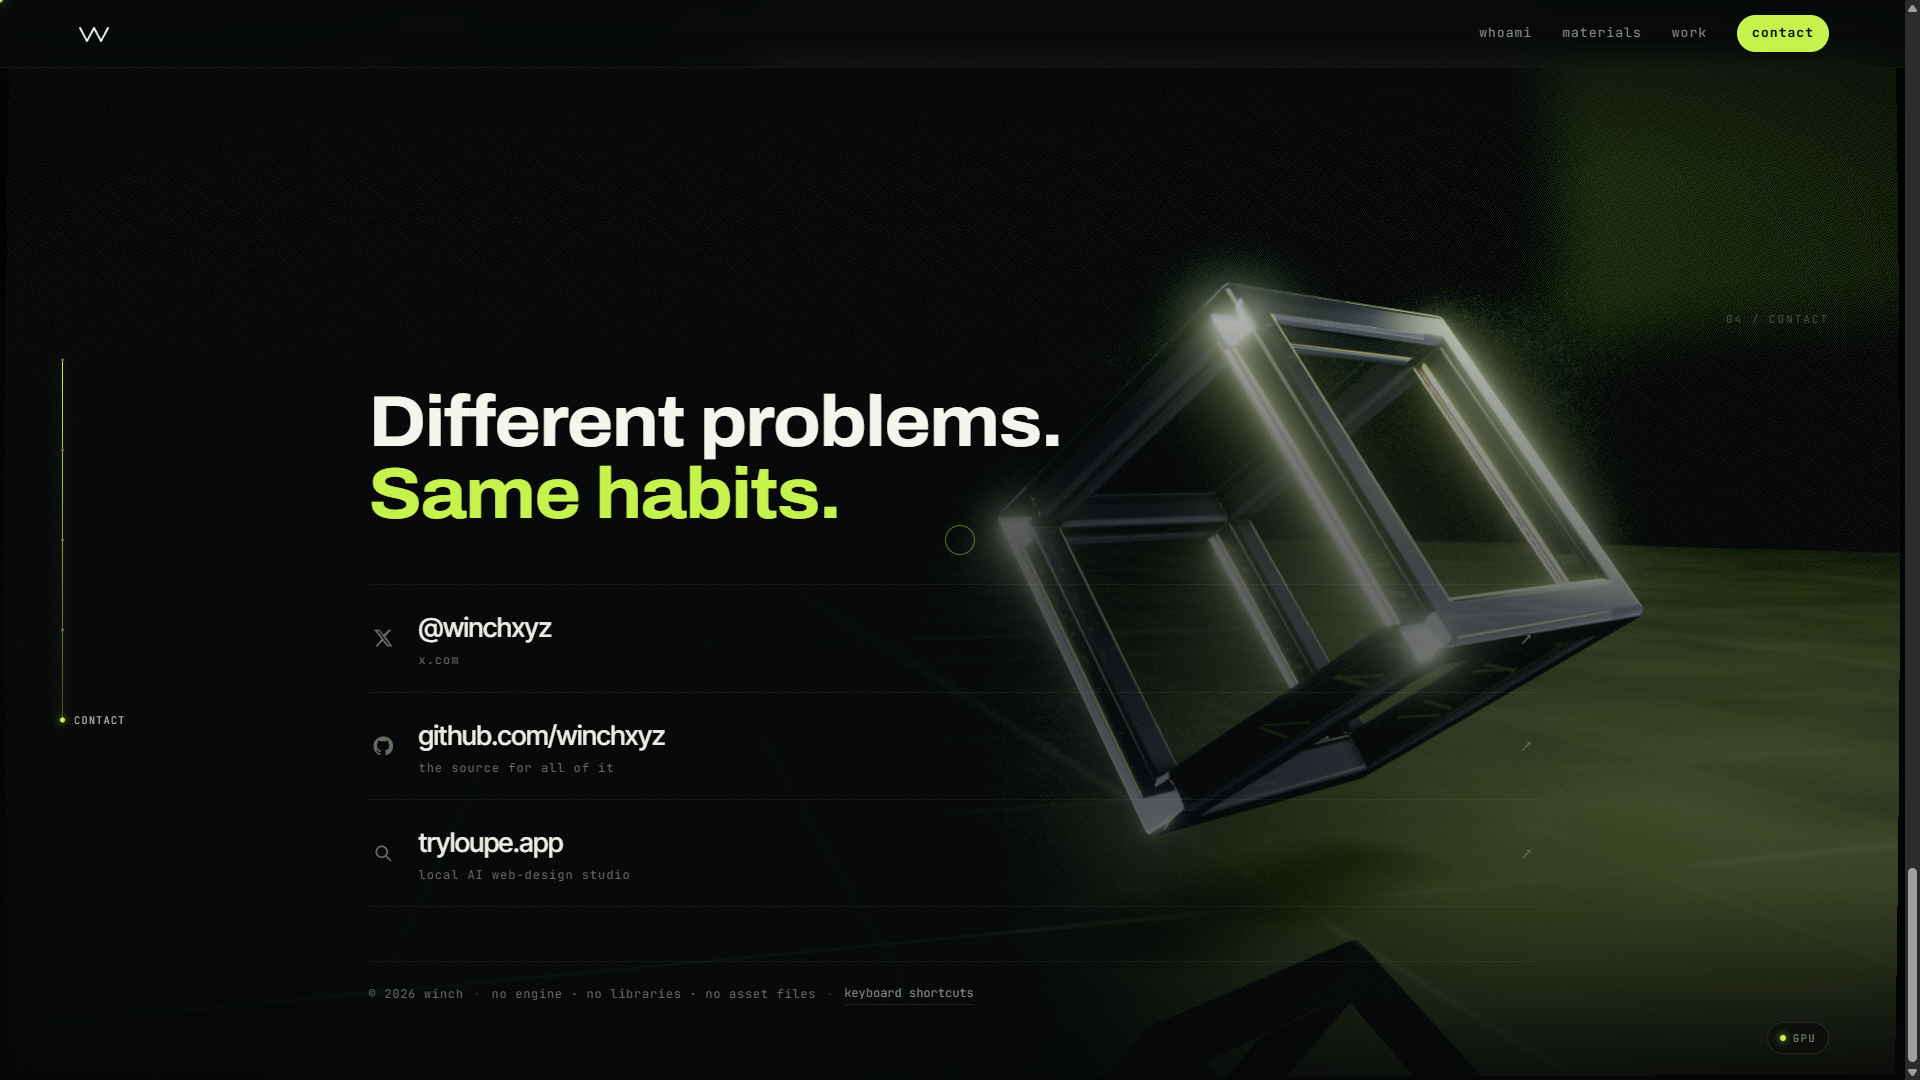
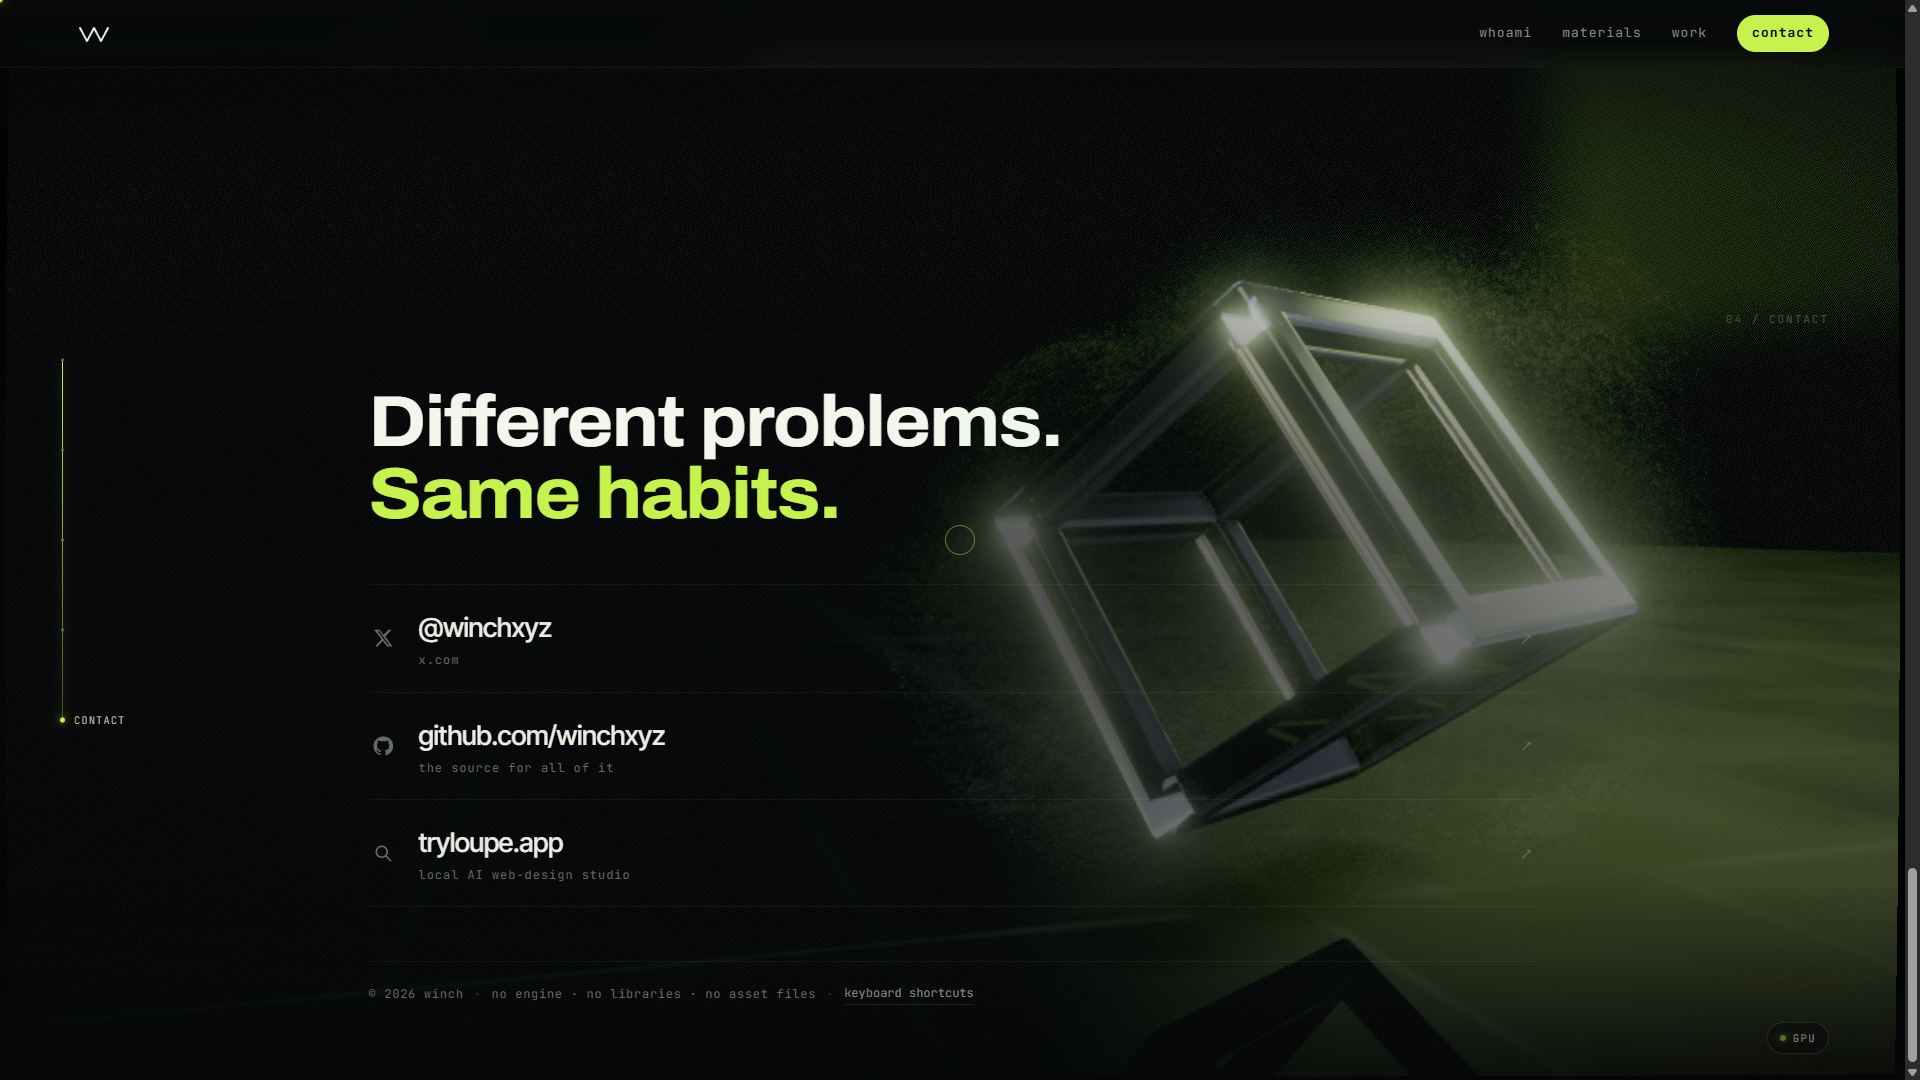
Reduced motion reaches the 3D, and the harness stops testing the wrong page
prefers-reduced-motion had been honoured on the DOM side for a while: reveals
fire at once, scrolling jumps rather than glides, the rotator stops rotating.
The 3D ignored it entirely, which made the listening close to cosmetic, given
that the thing moving on this page is a full-screen sculpture with a quarter
of a million particles around it.

Calm mode already existed for the M key and does the right things: half the
rotation rate, no parallax, curl and spin at a bit under half. It simply was
not wired to the one signal that asks for it. M still toggles, so this is a
default rather than a decision taken away. Verified both ways round: reduce
gives calm, no-preference does not.

Which turned up something worse. Headless Chrome reports prefers-reduced-motion
as reduce by DEFAULT, so every capture ever taken through this harness has been
of the calm, reveal-instantly version rather than the one a visitor gets. The
README has been illustrated with a page nobody sees. MEDIA sets media features
now, the images are retaken with no-preference, and the difference is visible
in the first one: the rotator is caught mid-type instead of frozen on its
opening line.

Layout audit clean at 1920.

Changed region(s): [[0.5625, 0.2139, 0.875, 0.7333], [0.5312, 0.55, 0.6562, 0.7944], [0.625, 0.6722, 0.6562, 0.7028]]

diff --git a/dist/artifact.html b/dist/artifact.html
@@ -5958,6 +5958,18 @@ const GLSL_LINES = [
 const ui = new UI();
 const director = new Director();
 
+/* Somebody who has told their operating system to reduce motion has told this
+   page too. The DOM side already listened: reveals fire at once, scrolling
+   jumps rather than glides, the rotator stops rotating. The 3D did not, which
+   made the listening fairly cosmetic, because the thing moving on this page
+   is a full-screen sculpture with a quarter of a million particles around it.
+
+   Calm mode already existed for the M key and does the right things: half the
+   rotation rate, no parallax, curl and spin at a bit under half. It just was
+   not wired to the one signal that asks for it. M still toggles, so this is a
+   default and not a decision taken away. */
+director.calm = ui.reduced;
+
 let renderer = null;
 let running = false;
 let last = performance.now();

diff --git a/dist/winch.html b/dist/winch.html
@@ -5965,6 +5965,18 @@ const GLSL_LINES = [
 const ui = new UI();
 const director = new Director();
 
+/* Somebody who has told their operating system to reduce motion has told this
+   page too. The DOM side already listened: reveals fire at once, scrolling
+   jumps rather than glides, the rotator stops rotating. The 3D did not, which
+   made the listening fairly cosmetic, because the thing moving on this page
+   is a full-screen sculpture with a quarter of a million particles around it.
+
+   Calm mode already existed for the M key and does the right things: half the
+   rotation rate, no parallax, curl and spin at a bit under half. It just was
+   not wired to the one signal that asks for it. M still toggles, so this is a
+   default and not a decision taken away. */
+director.calm = ui.reduced;
+
 let renderer = null;
 let running = false;
 let last = performance.now();

diff --git a/js/main.js b/js/main.js
@@ -23,6 +23,18 @@ const GLSL_LINES = [
 const ui = new UI();
 const director = new Director();
 
+/* Somebody who has told their operating system to reduce motion has told this
+   page too. The DOM side already listened: reveals fire at once, scrolling
+   jumps rather than glides, the rotator stops rotating. The 3D did not, which
+   made the listening fairly cosmetic, because the thing moving on this page
+   is a full-screen sculpture with a quarter of a million particles around it.
+
+   Calm mode already existed for the M key and does the right things: half the
+   rotation rate, no parallax, curl and spin at a bit under half. It just was
+   not wired to the one signal that asks for it. M still toggles, so this is a
+   default and not a decision taken away. */
+director.calm = ui.reduced;
+
 let renderer = null;
 let running = false;
 let last = performance.now();

diff --git a/README.md b/README.md
@@ -86,6 +86,14 @@ so the dark gradients do not band.
 
 `?tier=low|medium|high|ultra` in the URL overrides the auto-detected quality.
 
+Calm mode is the default for anyone whose system asks for reduced motion. The
+DOM side of the page had listened to that setting for a while: reveals fire at
+once, scrolling jumps rather than glides, the rotator stops rotating. The 3D
+did not, which made the listening close to cosmetic, given that the thing
+moving on this page is a full-screen sculpture with a quarter of a million
+particles around it. **M** still toggles, so it is a default rather than a
+decision taken away.
+
 ---
 
 ## Layout
@@ -156,6 +164,13 @@ real reason, every reveal fires so the writing is readable, and the two pieces
 of chrome that only make sense with a renderer behind them (the readout chip,
 and a line beginning "everything you see moving") take themselves off the
 page. `FLAGS` passes extra flags to Chrome for the cases where that is enough.
+
+`MEDIA` sets media features, and it exists because headless Chrome reports
+`prefers-reduced-motion: reduce` by default. Every capture ever taken through
+this harness was therefore of the calm, reveal-instantly version of the page
+rather than the one a visitor gets, which is a quiet way to test something
+other than what ships. The images here are taken with
+`MEDIA=prefers-reduced-motion=no-preference` now.
 
 `GPU=1` runs the same harness on the real adapter instead, which is how the
 sixty-eight-second shader compile described below was found:
